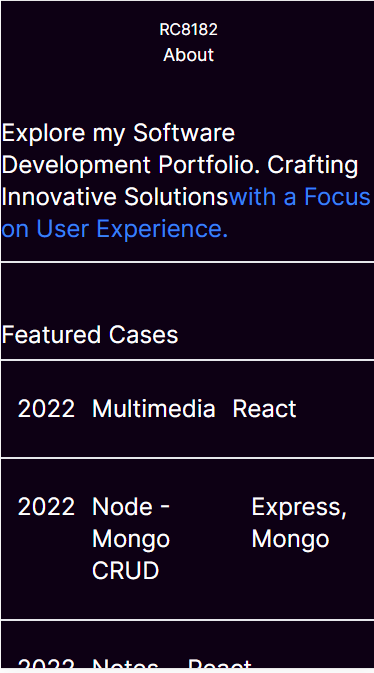
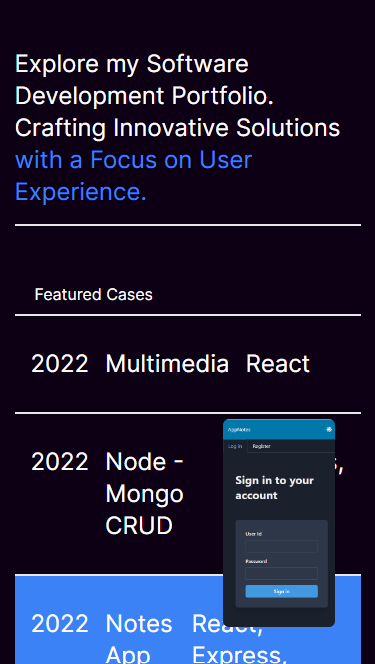
Corregir saltos de línea en page.js

diff --git a/src/app/page.js b/src/app/page.js
@@ -3,7 +3,7 @@ import { Projects } from "@/components/project-components/projects";
 
 export default function Home() {
   const title = 'Explore my Software Development Portfolio. Crafting Innovative Solutions';
-  const title2 = "with a Focus on User Experience.";
+  const title2 = " with a Focus on User Experience.";
   const icon = 'RC8182';
   const about = 'About';
   const projectsTitle = 'Featured Cases';
@@ -11,7 +11,7 @@ export default function Home() {
   const slogan = "Let's Create!";
 
   return (
-    <main className="flex flex-col items-center justify-between text-white sm:p-4 md:p-12 lg:p-24 xl:p-32">
+    <main className="flex flex-col mx-5 items-center justify-between  text-white sm:p-4 md:p-12 lg:p-24 xl:p-32">
       <div className="main-container flex flex-col">
         <header>
           <div className="flex flex-col md:flex-row justify-between items-center my-4 md:my-9">
@@ -23,7 +23,7 @@ export default function Home() {
         <section className="title py-8 md:py-16">
           <div>
             <p>
-              <span className="text-white sm:p-5 md:p-4 text-2xl md:text-6xl lg:text-8xl xl:text-9xl">{title}</span>
+              <span className="text-white sm:mx-3 sm:p-5 md:p-4 text-2xl md:text-6xl lg:text-8xl xl:text-9xl">{title}</span>
               <span className="text-blue-500 sm:p-5 md:p-4 text-2xl md:text-6xl lg:text-8xl xl:text-9xl">{title2}</span>
             </p>
           </div>
@@ -31,7 +31,7 @@ export default function Home() {
         </section>
 
         <section className="projects-section flex-col">
-          <div className="projects-title text-2xl md:text-4xl lg:text-6xl xl:text-8xl py-2 md:py-4 lg:py-6 xl:py-8">
+          <div className="projects-title mx-5 sm:text-1xl md:text-4xl lg:text-6xl xl:text-8xl py-2 md:py-4 lg:py-6 xl:py-8">
             <h2>{projectsTitle}</h2>
           </div>
           <div className="project-componer">

diff --git a/src/db/db.js b/src/db/db.js
@@ -13,55 +13,63 @@ export const projectsList=[
     year={'2022'}
     project={'Multimedia'}
     technologies={'React'}
-    image={multimedia}    
+    image={multimedia}
+    link={''}    
     />,
     <Tables 
     key={''}
     year={'2022'}
     project={'Node - Mongo CRUD'}
     technologies={'Express, Mongo'}
-    image={nodeCrud}    
+    image={nodeCrud} 
+    link={''}           
     />,
     <Tables 
     key={''}
     year={'2022'}
     project={'Notes App'}
     technologies={'React, Express, Mongo'}
-    image={notas}    
+    image={notas}
+    link={''}            
     />,
     <Tables 
     key={''}
     year={'2023'}
     project={'Weather App'}
     technologies={'React, FastAPI, Docker'}
-    image={medanoWind}    
+    image={medanoWind} 
+    link={'https://medano-wind.ddns.net/'}           
     />,
     <Tables 
     key={''}
     year={'2023'}
     project={'CV'}
     technologies={'React'}
-    image={myCv}    
+    image={myCv}
+    link={''}            
     />,
     <Tables 
     key={''}
     year={'2023'}
     project={'Arena Negra Restaurante'}
     technologies={'NextJs, Docker'}
-    image={arenaN}    
+    image={arenaN}
+    link={'https://arena-negra-restaurant.com/'}            
     />,
     <Tables 
     key={''}
     year={'2023'}
     project={'Weather App'}
     technologies={'Dart, Flutter'}
-    image={canaryW}    
+    image={canaryW}   
+    link={''}         
     />,   
     <Tables 
     key={''}
     year={'2023'}
     project={'MyPortfolio'}
     technologies={'NextJS, Docker'}
-    image={myPort}    
+    image={myPort}   
+    link={''}         
     />,      
 ];

diff --git a/src/components/project-components/tables.js b/src/components/project-components/tables.js
@@ -4,7 +4,7 @@ import { useState } from 'react';
 
 const HoverComponent = ({ img }) => {
   return (
-    <div className="flex fixed bottom-10 w-52 h-96 right-10 p-4 text-white rounded-md z-50 justify-center"
+    <div className="flex fixed bottom-10 w-28 h-52 md:w-52 md:h-96 right-10 p-4 rounded-md z-50 justify-center"
          style={{ backgroundImage: `url(${img?.src})`, backgroundSize: 'cover' }}>
   
     </div>
